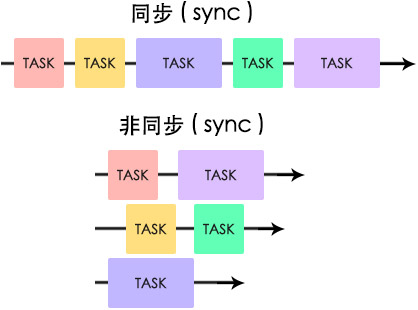
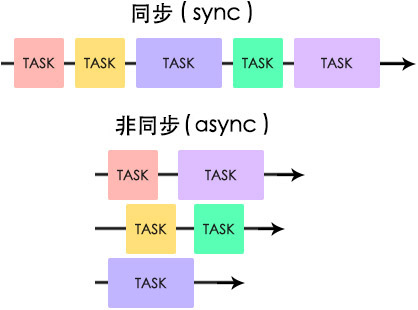
fixed image’s error

Changed region(s): [[0.2799, 0.3484, 0.6531, 0.4355]]

diff --git a/app/_md/201706/javascript-promise-settimeout.md b/app/_md/201706/javascript-promise-settimeout.md
@@ -2,7 +2,7 @@
 
 ![](/img/articles/201706/javascript-promise-settimeout.jpg#preview-img)
 
-過去在寫 JavaScript 使用的同步延遲，都是用 setTimeout 來實現，但如果有很多個任務或流程要執行，就得使用一堆 callback 來完成，然而 JavaScript 裡的 Promise 剛好就可以用來解決這個問題，讓整個延遲的過程可以很漂亮且同步的「串」在一起。
+過去在寫 JavaScript 使用的同步延遲，都是用非同步的 setTimeout 加上 callback 來實現，但如果有很多個任務或流程要執行，就得用上一大堆的 callback，然而 JavaScript 裡的 Promise ，剛好就可以用來解決同步與非同步的問題，讓整個延遲的過程可以很漂亮且同步的「串」在一起。
 
 ## 同步非同步
 
